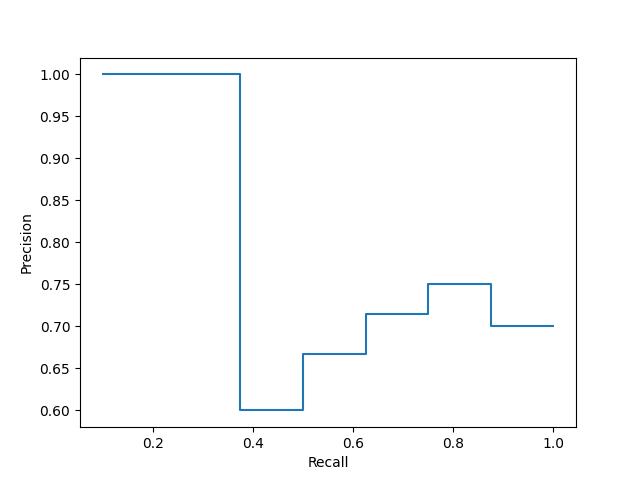
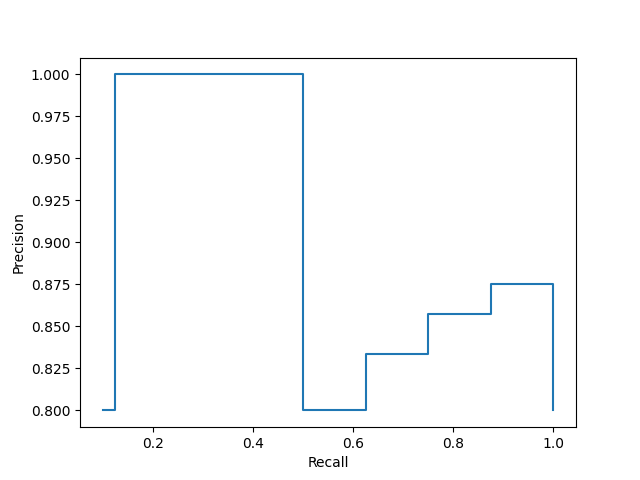
Updated query 3

diff --git a/Milestone3/results_3.tex b/Milestone3/results_3.tex
@@ -1,7 +1,8 @@
 \begin{tabular}{lll}
  & 0 & 1 \\
 0 & Metric & Value \\
-1 & Average Precision & 0.844104 \\
-2 & Precision at 5 (P@5) & 0.600000 \\
-3 & Precision at 10 (P@10) & 0.700000 \\
+1 & Average Precision & 0.931796 \\
+2 & Precision at 5 (P@5) & 0.800000 \\
+3 & Precision at 8 (P@8) & 0.875000 \\
+4 & Precision at 10 (P@10) & 0.800000 \\
 \end{tabular}
